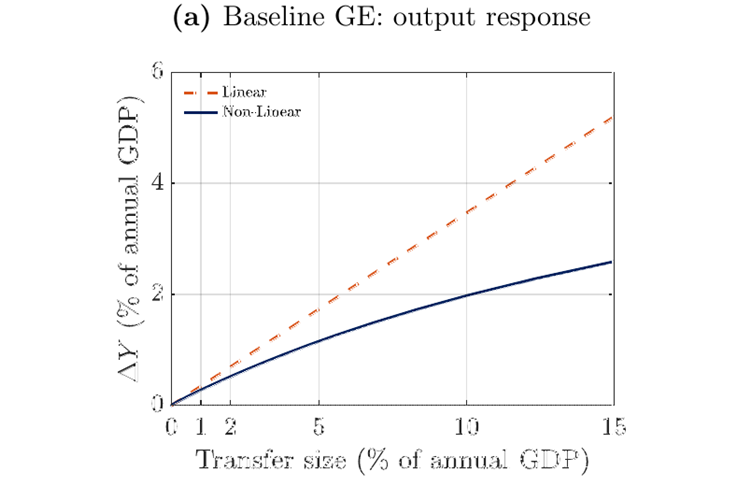
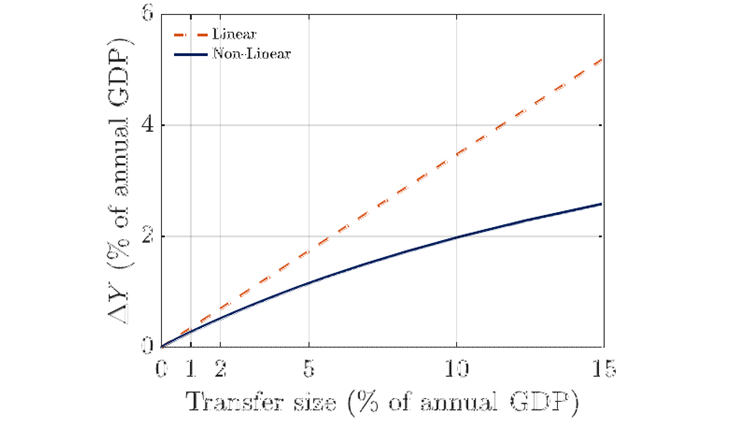
Update Small is Small date to June 2026; crop figure thumbnail

diff --git a/Research.htm b/Research.htm
@@ -97,7 +97,7 @@
       <div class="paper-figure"><img src="figures/Small_is_Small_fig3a.png" alt="Figure 3a for How Small is Small? Non-linearities in Heterogeneous Agent Models"></div>
       <div class="paper-info">
         <div class="paper-title"><a href="research_working/Bianchi_Kaplan_June2026.pdf">How Small is Small? Non-linearities in Heterogeneous Agent Models</a></div>
-        <div class="paper-authors">with Greg Kaplan &mdash; May 2026</div>
+        <div class="paper-authors">with Greg Kaplan &mdash; June 2026</div>
         <div class="paper-links"><a href="research_working/Bianchi_Kaplan_June2026.pdf">[Paper]</a> <a href="https://x.com/JavierBianchi7/status/2061810370621174272" target="_blank">[<svg aria-hidden="true" width="12" height="12" viewBox="0 0 24 24" fill="currentColor" style="vertical-align:-1px; margin-right:3px;"><path d="M18.244 2.25h3.308l-7.227 8.26 8.502 11.24H16.17l-4.714-6.231-5.401 6.231H2.747l7.73-8.835L1.254 2.25H8.08l4.253 5.622zm-1.161 17.52h1.833L7.084 4.126H5.117z"/></svg>Thread]</a></div>
       </div>
     </div>
